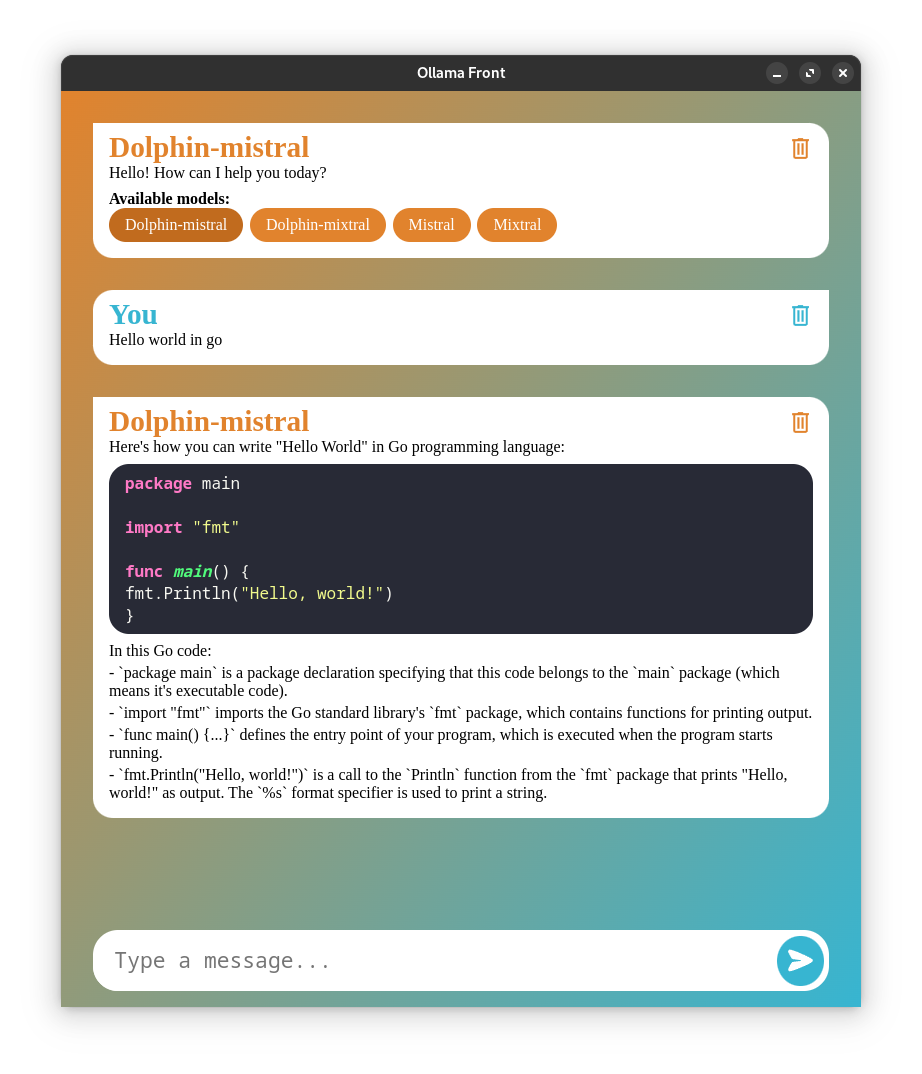
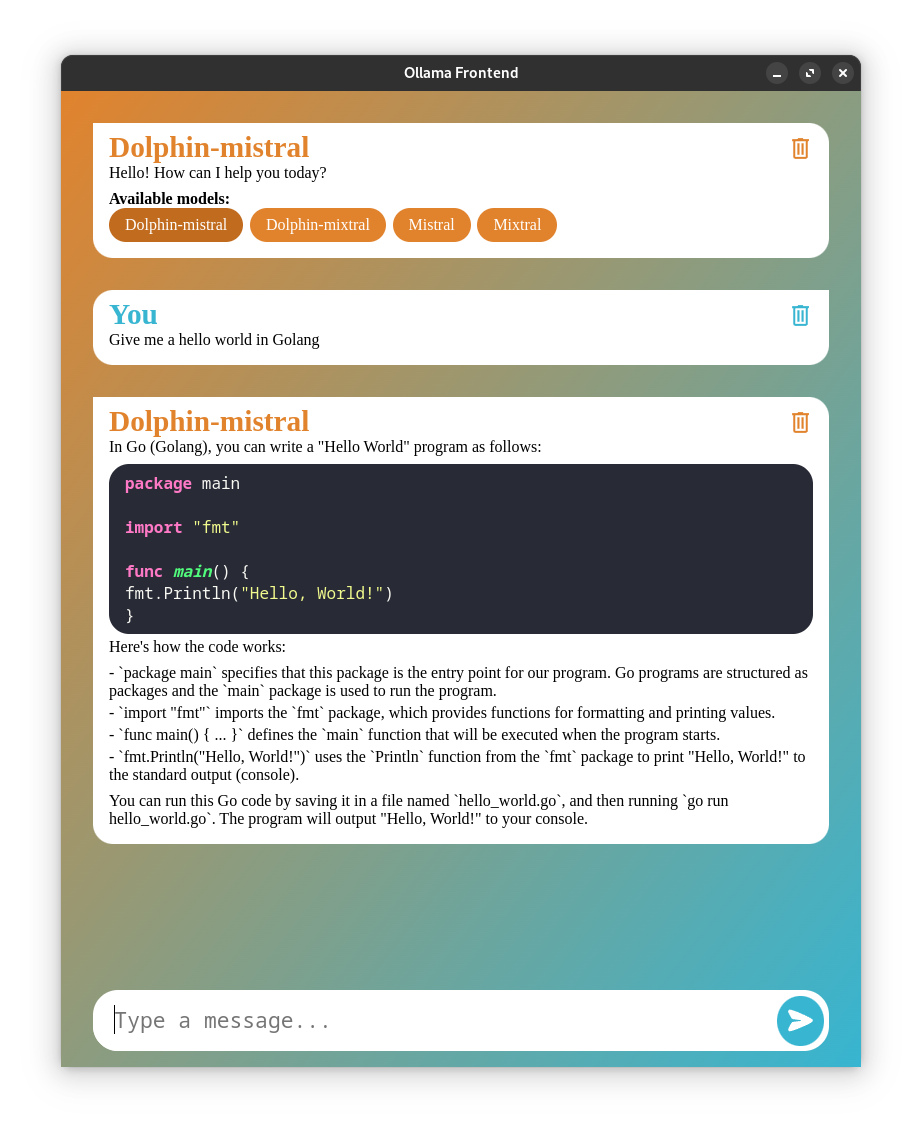
Update README and screenshot up to date

Changed region(s): [[0.0607, 0.0307, 0.9414, 0.7682], [0.0911, 0.8603, 0.9111, 0.9525]]

diff --git a/README.md b/README.md
@@ -4,14 +4,23 @@
 
 This is a frontend project in electron to use your local LLM models in a GUI via ollama.
 
-## For the User
+## Shortcuts
+
+- `Ctrl + Enter` to send the message. There are protections to avoid sending empty messages and when one is already
+processing. Don't worry about faulty peripherals. So you can enter a new line with `Enter` or `Shift + Enter`.
+- `Ctrl + R` to reset the history (clicking on a model does the same thing).r
+- `Ctrl + Q` (Linux/Mac) or `Alt + F4` (Windows) to close the app.
+
+## Install
+
+### For users
 
 Download the latest release from the [releases](https://github.com/PonyLucky/Ollama-Front/releases).
 If you don't see a release for your platform, you can build it yourself. See the [For the Dev](#for-the-dev) section.
 
 I did not take the time to build it for Windows (don't have a Apple device yet). Please open an issue if you need it.
 
-### On Linux
+#### On Linux
 
 If `wget` is not installed, you can install it with:
 - `sudo apt install wget` on Debian based OS (Ubuntu, Mint).
@@ -40,7 +49,7 @@ chmod +x ~/.local/share/applications/OllamaFront.desktop
 echo "Please log out and log in again to see the changes."
 ````
 
-## For the Dev
+### For devs
 
 This project needs [Node.js](https://nodejs.org/) to run. *I use Node v20.10.0.*
 
@@ -48,13 +57,13 @@ This project needs [Node.js](https://nodejs.org/) to run. *I use Node v20.10.0.*
 npm install
 ```
 
-### Usage
+#### Usage
 
 ```bash
 npm start
 ```
 
-### Build
+#### Build
 
 ```bash
 npm run build
